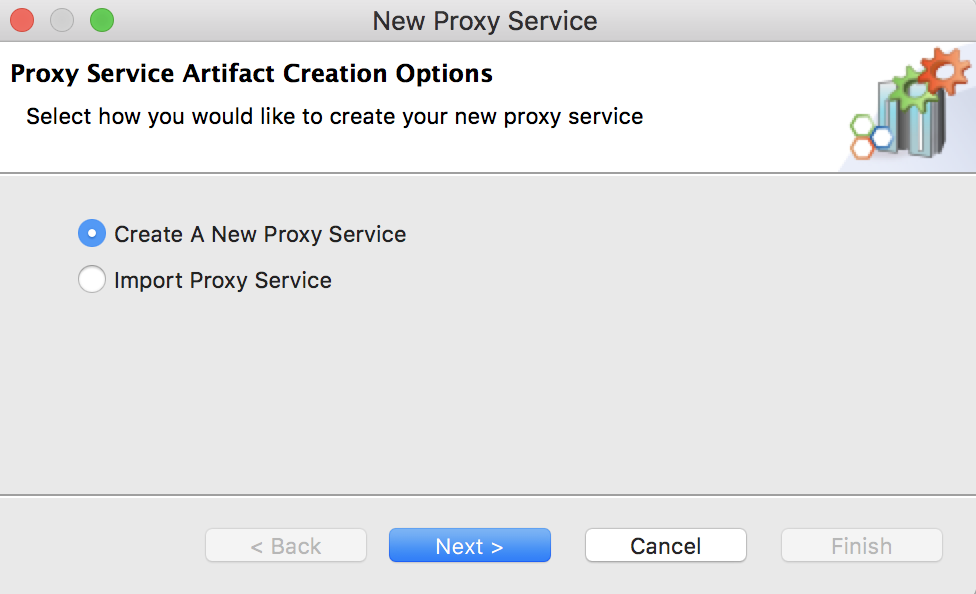
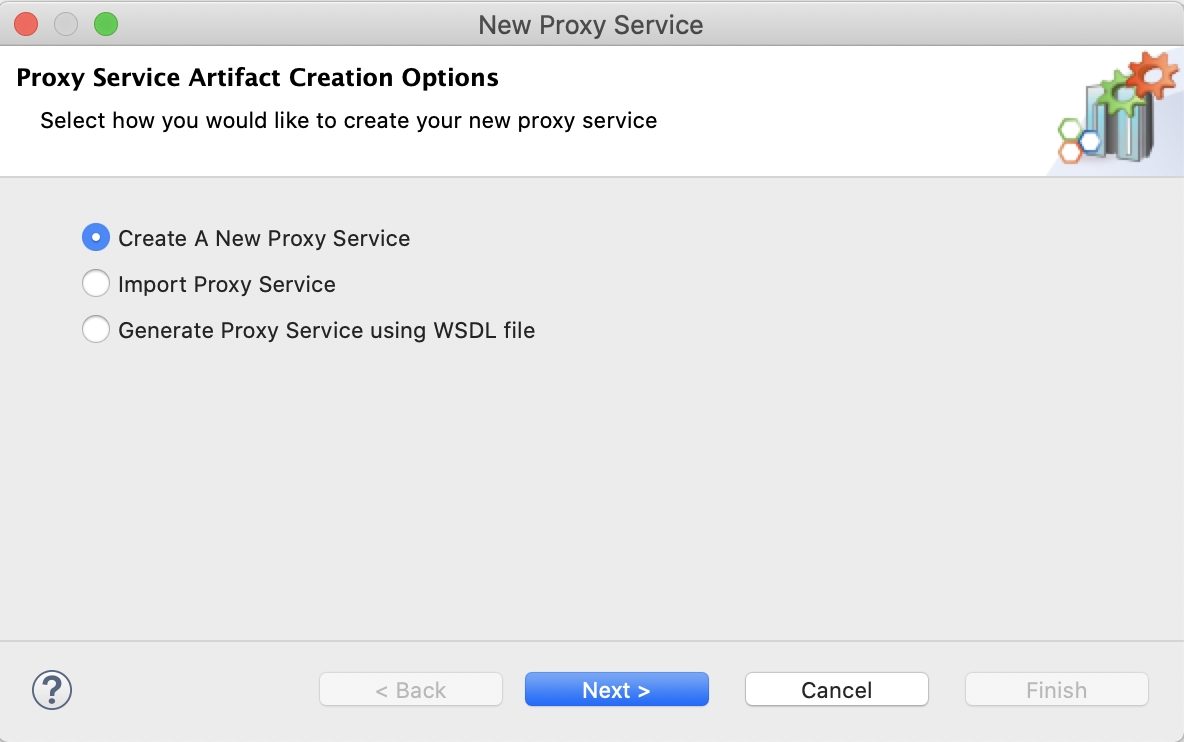
Create documentation for WSDL import feature

diff --git a/en/micro-integrator/docs/develop/creating-artifacts/creating-a-proxy-service.md b/en/micro-integrator/docs/develop/creating-artifacts/creating-a-proxy-service.md
@@ -105,6 +105,23 @@ Click the **Source** tab to view the XML-based synapse configuration (source cod
 
 <img src="../../../assets/img/create_artifacts/new_proxy_service/proxy-service-source-view.png" width="800">
 
+### Creating a Proxy Service using a WSDL definition
+
+You can also create a Proxy Service by importing a WSDL.
+
+<img src="../../../assets/img/create_artifacts/new_proxy_service/create-new-proxy-option-wsdl.png" width="500">
+
+You can import a WSDL by providing a WSDL Url or a file location.
+
+<img src="../../../assets/img/create_artifacts/new_proxy_service/create-proxy-from-wsdl.png" width="500">
+
+This will generate a mediation skeleton which you can improve upon.
+
+<img src="../../../assets/img/create_artifacts/new_proxy_service/skeleton-proxy-service-wsdl.png" width="500">
+
+!!! Note
+    Switch cases are added only if the SOAPActions are defined in the provided WSDL definition.
+
 ## Examples
 
 -   [Using a Simple Proxy Service](../../../use-cases/examples/proxy_service_examples/Introduction-to-Proxy-Services)
